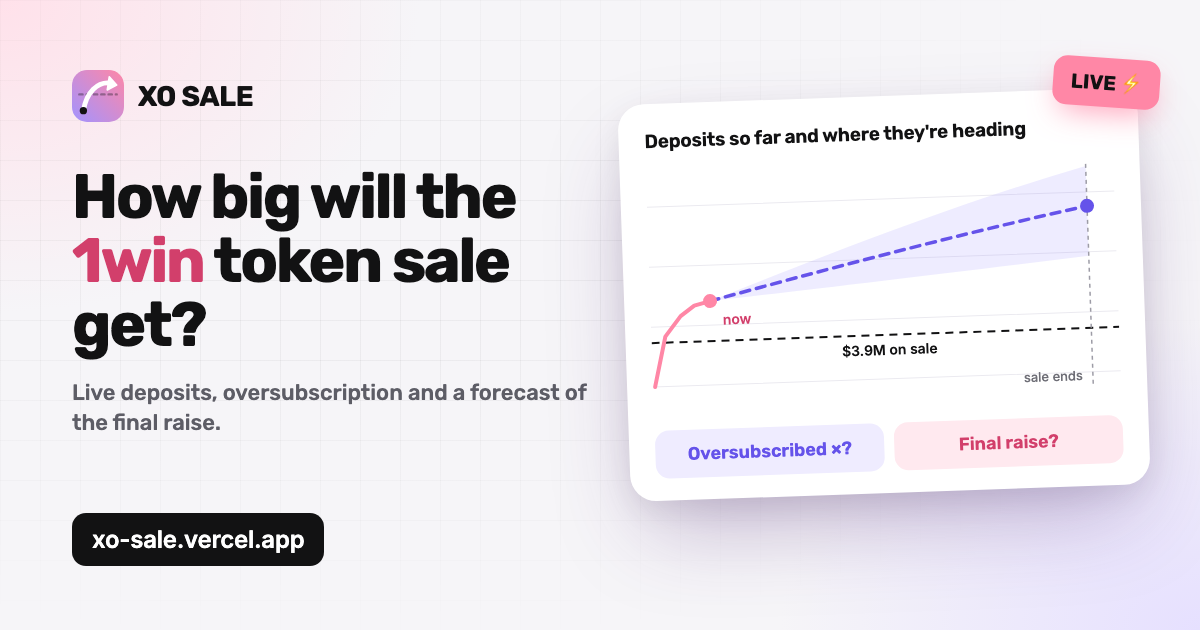
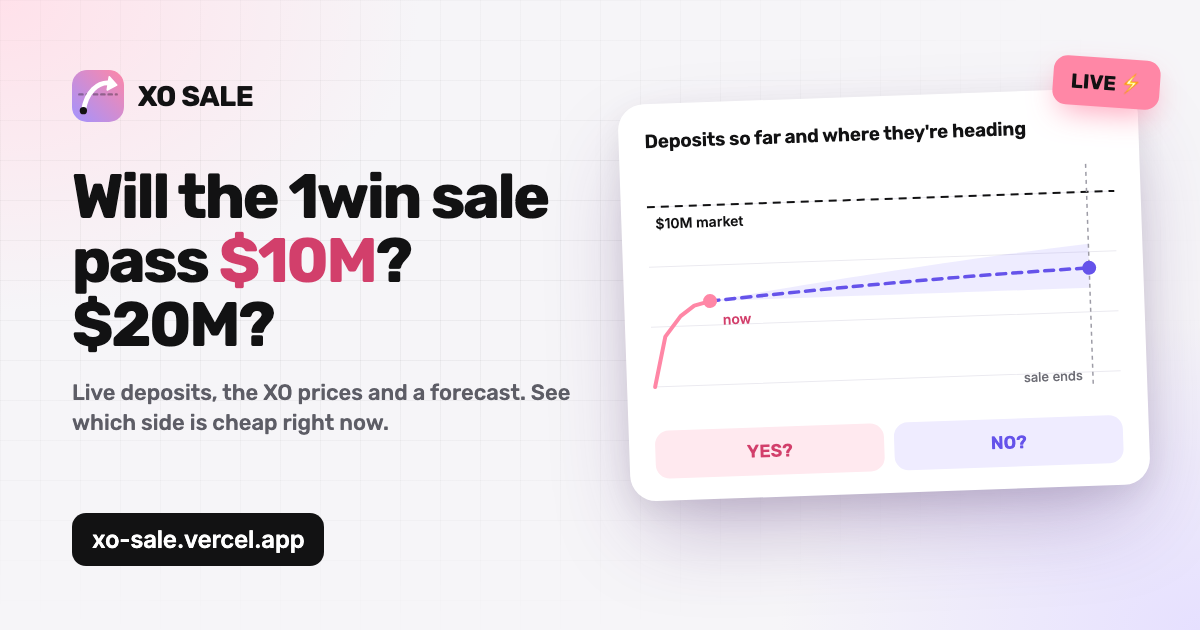
Analyse the sale against its two XO markets
The page now leads with the XO markets on the 1win sale (above $10M by Oct 30 00:00 UTC,
above $20M by the close): our chance of YES, the price to buy each side with the fee,
the pace each one needs against the pace now, a verdict and buy buttons. The proxy also
returns the markets' best prices, since XO's order books only answer XO's own site.
The chart shows both market lines; the preview image asks the markets' question.

diff --git a/index.html b/index.html
@@ -5,16 +5,16 @@
 <meta name="viewport" content="width=device-width, initial-scale=1">
 <title>XO SALE · 1win Token</title>
 <meta name="description" content="Live tracker for the 1win Token (1W) sale: deposits, oversubscription and a forecast of the final raise.">
-<meta property="og:title" content="XO SALE · 1win Token sale, live">
-<meta property="og:description" content="Deposits, oversubscription and where the raise is heading, updated live.">
+<meta property="og:title" content="XO SALE · Will the 1win sale pass $10M? $20M?">
+<meta property="og:description" content="Live deposits, the XO prices and a forecast: which side looks cheap right now.">
 <meta property="og:type" content="website">
 <meta property="og:url" content="https://xo-sale.vercel.app/">
 <meta property="og:image" content="https://xo-sale.vercel.app/img/og.png">
 <meta property="og:image:width" content="1200">
 <meta property="og:image:height" content="630">
 <meta name="twitter:card" content="summary_large_image">
-<meta name="twitter:title" content="XO SALE · 1win Token sale, live">
-<meta name="twitter:description" content="Deposits, oversubscription and where the raise is heading, updated live.">
+<meta name="twitter:title" content="XO SALE · Will the 1win sale pass $10M? $20M?">
+<meta name="twitter:description" content="Live deposits, the XO prices and a forecast: which side looks cheap right now.">
 <meta name="twitter:image" content="https://xo-sale.vercel.app/img/og.png">
 <meta name="theme-color" content="#FF87A6">
 <link rel="icon" type="image/svg+xml" href="img/logo.svg">
@@ -127,6 +127,33 @@ canvas{width:100%;display:block}
 @media (max-width:420px){.fact .ic{display:none}.fact{padding:12px 16px}.split .v{font-size:18px}.split>div+div{padding-left:14px;margin-left:2px}}
 @media (max-width:340px){.split .v{font-size:16px}.split .lbl{font-size:12.5px}.fact{padding:12px 12px}.split>div+div{padding-left:10px}}
 
+.mkts{display:grid;grid-template-columns:minmax(0,1fr) minmax(0,1fr);gap:12px;margin-top:20px}
+@media (max-width:860px){.mkts{grid-template-columns:minmax(0,1fr)}}
+.mk{border:1px solid var(--line);border-radius:18px;padding:16px;min-width:0}
+.mk-h{display:flex;align-items:baseline;gap:8px;flex-wrap:wrap}
+.mk-h b{font:600 19px Rubik;letter-spacing:-.02em}
+.mk-h span{font:400 13px Rubik;color:var(--muted)}
+.mk-row{display:grid;grid-template-columns:minmax(0,1fr) minmax(0,1fr);gap:10px;margin-top:12px}
+.mk-row>div{background:var(--soft);border-radius:14px;padding:10px 12px}
+.mk-row .v{font:600 30px/1.1 Inter;letter-spacing:-.025em;font-variant-numeric:tabular-nums;margin-top:2px}
+.mk-row .v.pm{color:var(--no-ink)}
+.need{margin-top:10px;font:400 13.5px/1.5 Rubik;color:var(--muted)}.need b{color:var(--ink);font-weight:600}
+.verdict{margin-top:12px;border-radius:14px;padding:12px 14px;display:flex;flex-direction:column;gap:4px;background:var(--soft)}
+.verdict.yes{background:linear-gradient(100deg,var(--yes-soft),color-mix(in srgb,var(--yes-soft) 30%,var(--card)))}
+.verdict.no{background:linear-gradient(100deg,var(--no-soft),color-mix(in srgb,var(--no-soft) 30%,var(--card)))}
+.verdict .side{display:flex;align-items:center;gap:6px;font:600 19px Rubik;letter-spacing:-.02em;white-space:nowrap}
+.verdict.yes .side{color:var(--yes-ink)}.verdict.no .side{color:var(--no-ink)}
+.verdict .side svg{width:22px;height:22px}
+.verdict .t{font:400 14px/1.5 Rubik}.verdict .t b{font-weight:600}
+.trade{display:grid;grid-template-columns:minmax(0,1fr) minmax(0,1fr);gap:8px;margin-top:10px}
+.tb{display:flex;flex-direction:column;align-items:center;gap:2px;padding:11px 8px;border-radius:14px;text-decoration:none;transition:transform .15s}
+.tb:hover{transform:translateY(-1px)}
+.tb.off{pointer-events:none;opacity:.55;filter:saturate(.55);cursor:default}
+.tb.yes{background:var(--yes-soft)}.tb.no{background:var(--no-soft)}
+.tb b{font:600 16px Rubik;white-space:nowrap}.tb.yes b{color:var(--yes-ink)}.tb.no b{color:var(--no-ink)}
+.tb span{font:500 12px Figtree;color:var(--muted);text-align:center;font-variant-numeric:tabular-nums}
+.duo2{display:grid;grid-template-columns:minmax(0,1fr) minmax(0,1fr);gap:12px;margin-top:16px}
+@media (max-width:620px){.duo2{grid-template-columns:minmax(0,1fr)}}
 .fill-note{margin-top:14px;border-radius:16px;padding:14px 16px;background:var(--soft);font:400 14.5px/1.5 Rubik}
 .fill-note b{font-weight:600}
 .ptick{position:absolute;top:-3px;bottom:-3px;width:2px;background:var(--ink);border-radius:1px}
@@ -145,28 +172,16 @@ canvas{width:100%;display:block}
 </div></header>
 
 <main class="wrap">
-  <!-- 1 · headline numbers -->
+  <!-- 1 · the XO markets -->
   <section class="card">
     <div class="q">
       <img src="img/logo.svg" alt="">
       <div>
-        <h1>1win Token (1W) sale: how much will it raise?</h1>
-        <div class="meta" id="meta">Solana · $0.03 per token · $3.9M target · ends Oct 30, 16:00 UTC</div>
+        <h1>Will the 1win token sale pass $10M? $20M?</h1>
+        <div class="meta" id="meta">Two XO markets on the 1win Token (1W) sale · ends Oct 30, 16:00 UTC</div>
       </div>
     </div>
-    <div class="duo">
-      <div class="box o">
-        <div class="h"><i></i><span>Oversubscribed now</span></div>
-        <div class="v" id="xNow">—</div>
-        <div class="d" id="xDesc">Deposits divided by the $3.9M the sale is selling.</div>
-      </div>
-      <div class="box f">
-        <div class="h"><i></i><span>Our forecast at close</span></div>
-        <div class="v" id="fMid">—</div>
-        <div class="d" id="fDesc">Where deposits are heading by the end of the sale, from how fast money is coming in.</div>
-      </div>
-    </div>
-    <div class="fill-note" id="fillNote">Loading live data…</div>
+    <div class="mkts" id="mkts"><div class="need">Loading live data…</div></div>
     <div class="conf"><span class="dots" id="dots"><i></i><i></i><i></i></span><span id="conf">—</span></div>
   </section>
 
@@ -175,6 +190,19 @@ canvas{width:100%;display:block}
     <h2>Deposited so far</h2>
     <div class="big" id="dep">—</div>
     <div class="sub" id="depLine">—</div>
+    <div class="duo2">
+      <div class="box o">
+        <div class="h"><i></i><span>Oversubscribed now</span></div>
+        <div class="v" id="xNow">—</div>
+        <div class="d" id="xDesc">Deposits divided by the $3.9M the sale is selling.</div>
+      </div>
+      <div class="box f">
+        <div class="h"><i></i><span>Our forecast at close</span></div>
+        <div class="v" id="fMid">—</div>
+        <div class="d" id="fDesc">Where deposits are heading by the end of the sale.</div>
+      </div>
+    </div>
+    <div class="fill-note" id="fillNote">—</div>
     <div class="facts">
       <div class="fact"><div class="ic"><svg viewBox="0 0 24 24"><circle cx="9" cy="8" r="3.5"/><path d="M2.5 20c.8-3.6 3.4-5.5 6.5-5.5s5.7 1.9 6.5 5.5M16 4.5a3.5 3.5 0 010 7M18.5 14.8c1.7.8 2.7 2.5 3 5.2"/></svg></div><div class="split"><div><div class="lbl">People</div><div class="v" id="ppl">—</div></div><div><div class="lbl">Average deposit</div><div class="v" id="avg">—</div></div></div></div>
       <div class="fact"><div class="ic"><svg viewBox="0 0 24 24"><path d="M3 17l6-6 4 4 8-8"/><path d="M15 7h6v6"/></svg></div><div class="split"><div><div class="lbl">Last 24 h</div><div class="v" id="day">—</div></div><div><div class="lbl" id="paceLbl">Pace / hour</div><div class="v" id="pace">—</div></div></div></div>
@@ -189,7 +217,7 @@ canvas{width:100%;display:block}
     <div class="legend">
       <span><i style="background:var(--yes)"></i>Real deposits</span>
       <span><i style="background:var(--fc-line)"></i>Our forecast</span>
-      <span><i style="background:var(--ink)"></i>$3.9M on sale</span>
+      <span><i style="background:var(--ink)"></i>$10M and $20M lines of the XO markets</span>
       <span><i style="background:var(--fc-band);height:10px"></i>Could land anywhere here</span>
     </div>
   </section>
@@ -198,9 +226,9 @@ canvas{width:100%;display:block}
   <section class="card">
     <h2>Good to know</h2>
     <div class="know">
-      <div class="k"><div class="ic" style="background:var(--no-soft)"><svg viewBox="0 0 24 24" style="stroke:var(--no-ink)"><path d="M3 20h18"/><path d="M5 20V10M10 20V4M15 20v-7M20 20v-4"/></svg></div><b>How the forecast works</b><p>We average two views of the real deposits: the sale keeps slowing down the way it has so far, or it keeps the pace of the last day. The range stays wide on purpose: sales often get a rush in their last hours, and one whale can move it a lot.</p></div>
-      <div class="k"><div class="ic" style="background:var(--yes-soft)"><svg viewBox="0 0 24 24" style="stroke:var(--yes-ink)"><circle cx="12" cy="12" r="9"/><path d="M8 12h8M12 8v8"/></svg></div><b>Oversubscription</b><p>The sale sells a fixed <strong>130M tokens ($3.9M)</strong>. When more money comes in, tokens are shared out in proportion to deposits, so the higher the multiple at the close, the smaller the share of each deposit that buys tokens.</p></div>
-      <div class="k"><div class="ic" style="background:var(--warn-soft)"><svg viewBox="0 0 24 24" style="stroke:#d18a00"><path d="M12 9v4M12 17h.01"/><path d="M10.3 3.9L1.8 18a2 2 0 001.7 3h17a2 2 0 001.7-3L13.7 3.9a2 2 0 00-3.4 0z"/></svg></div><b>Where the numbers come from</b><p>Live totals from the <a href="https://1wtoken.com/" target="_blank" rel="noopener">official sale page</a>; the history also from the sale's USDC account <a href="https://solscan.io/account/HciAS69vfU1ZzfWEczqwkAUfLodpbGFVALLpA1wtA5W2" target="_blank" rel="noopener">on Solana</a>. A fan-made tracker by the XO community, not advice.</p></div>
+      <div class="k"><div class="ic" style="background:var(--no-soft)"><svg viewBox="0 0 24 24" style="stroke:var(--no-ink)"><path d="M3 20h18"/><path d="M5 20V10M10 20V4M15 20v-7M20 20v-4"/></svg></div><b>How the forecast works</b><p>We average two views of the real deposits: the sale keeps slowing down the way it has so far, or it keeps the pace of the last day. It can't see what nobody has announced yet: a big 1win promotion or a last-day rush. On the Jumper sale deposits grew <strong>1.9×</strong> in the last 24 hours.</p></div>
+      <div class="k"><div class="ic" style="background:var(--warn-soft)"><svg viewBox="0 0 24 24" style="stroke:#d18a00"><rect x="3" y="5" width="18" height="16" rx="2"/><path d="M3 10h18M8 3v4M16 3v4"/></svg></div><b>How the markets resolve</b><p><strong>$10M:</strong> gross commitments as of <strong>Oct 30, 00:00 UTC</strong>, 16 hours before the sale ends. <strong>$20M:</strong> the gross total on the sale page at any time before the close (Oct 30, 16:00 UTC; an extension counts up to Nov 15). Both use the total before refunds, as shown on the sale page.</p></div>
+      <div class="k"><div class="ic" style="background:var(--yes-soft)"><svg viewBox="0 0 24 24" style="stroke:var(--yes-ink)"><path d="M12 9v4M12 17h.01"/><path d="M10.3 3.9L1.8 18a2 2 0 001.7 3h17a2 2 0 001.7-3L13.7 3.9a2 2 0 00-3.4 0z"/></svg></div><b>Sources, and not advice</b><p>Live totals from the <a href="https://1wintoken.com/" target="_blank" rel="noopener">official sale page</a>; the history also from the sale's USDC account <a href="https://solscan.io/account/HciAS69vfU1ZzfWEczqwkAUfLodpbGFVALLpA1wtA5W2" target="_blank" rel="noopener">on Solana</a>. A fan-made tracker by the XO community. Only trade what you can afford to lose.</p></div>
     </div>
   </section>
 </main>
@@ -212,7 +240,14 @@ const CFG = {
   goal: 3.9e6, // what the sale sells: 130M tokens at $0.03
   open: Date.parse('2026-10-15T15:00:00Z'),
   end: Date.parse('2026-10-30T16:00:00Z'),
+  ref: 'andriy_shkinder',
+  // the XO markets on this sale: what total they need, and the moment it's counted
+  markets: [
+    { slug: 'total-commitments-for-the-1win-1win-public-sale-ab-9330', goal: 10e6, name: 'Above $10M', at: Date.parse('2026-10-30T00:00:00Z'), when: 'counted Oct 30, 00:00 UTC' },
+    { slug: 'will-the-1win-token-sale-get-more-than-20m-in-depo-8761', goal: 20e6, name: 'Above $20M', at: null, when: 'by the sale close, Oct 30, 16:00 UTC' },
+  ],
 };
+const mAt = m => m.at || CFG.end; // null: the sale close, which can move
 
 const root = document.documentElement;
 try { const s = localStorage.getItem('theme'); if (s) root.dataset.theme = s; } catch {}
@@ -223,6 +258,12 @@ const usd = v => '$' + Math.round(v).toLocaleString('en-US');
 const usdM = v => v >= 1e6 ? '$' + (v / 1e6).toFixed(v >= 1e7 ? 1 : 2) + 'M' : v >= 1e3 ? '$' + (v / 1e3).toFixed(v >= 1e4 ? 0 : 1) + 'K' : '$' + Math.round(v);
 const mult = v => '×' + v.toFixed(2);
 const Hh = ms => ms / 36e5;
+const cents = v => (v < .01 ? (v * 100).toFixed(1) : Math.round(v * 100)) + '¢';
+const pct = v => Math.round(v * 100) + '%';
+// XO taker fee per share: 4% × p × (1 − p) (docs.xo.market/product/trading/fees), so one share really costs p + fee
+const withFee = p => p + .04 * p * (1 - p);
+function erf(x) { const s = Math.sign(x); x = Math.abs(x); const t = 1 / (1 + .3275911 * x); return s * (1 - (((((1.061405429 * t - 1.453152027) * t) + 1.421413741) * t - .284496736) * t + .254829592) * t * Math.exp(-x * x)); }
+const Phi = z => .5 * (1 + erf(z / Math.SQRT2));
 const css = n => getComputedStyle(root).getPropertyValue(n).trim();
 
 let HIST = [], LIVE = null, MODEL = null;
@@ -288,7 +329,14 @@ function compute() {
   // deposits over the last 24 hours, read off the recorded line
   const at = t => { let v = null; for (const p of pts) { if (p.t <= t) v = p.d; else break; } return v; };
   const dayAgo = at(now.t - 864e5);
-  MODEL = { pts, now, tNow, k, se, fitted, pace, fc, day: dayAgo == null ? null : now.d - dayAgo };
+  // chance that deposits pass `goal` by time T; never 0% or 100% while it's still open
+  const prob = (goal, T) => {
+    if (now.d > goal) return 1;
+    if (T <= now.t) return 0;
+    const f = fc(T); if (f.rem <= 0) return .01;
+    return Math.min(.99, Math.max(.01, 1 - Phi(Math.log((goal - now.d) / f.rem) / f.sigma)));
+  };
+  MODEL = { pts, now, tNow, k, se, fitted, pace, fc, prob, day: dayAgo == null ? null : now.d - dayAgo };
 }
 
 let shownDep = 0, animFrom = 0, animT0 = 0;
@@ -315,6 +363,7 @@ function render() {
   $('fillNote').innerHTML = over
     ? `The sale closed at <b>${mult(x)}</b>: each $1,000 deposited bought about <b>${usd(1000 / Math.max(1, x))}</b> of 1W at the sale price.`
     : `If the sale closes around <b>${mult(xFinal)}</b>, a <b>$1,000</b> deposit buys about <b>${usd(fill)}</b> of 1W at the sale price (${Math.round(100 / Math.max(1, xFinal))}% of it). Right now it would be ${usd(1000 / Math.max(1, x))}.`;
+  renderMarkets(M, d);
   // how sure: a young sale, or the two views disagreeing a lot, means a wide range
   const sig = f.sigma, hrs = Math.floor(M.tNow), early = !M.fitted || M.tNow < 12, level = over ? 3 : early || sig > .6 ? 1 : sig > .45 ? 2 : 3;
   [...$('dots').children].forEach((e, i) => e.classList.toggle('on', i < level));
@@ -322,7 +371,49 @@ function render() {
   $('conf').innerHTML = over ? 'How sure: <b>certain</b>. The sale is over.'
     : level === 1 && !early ? 'How sure: <b>low</b>. The long-run trend and the pace of the last day point to very different results right now.'
     : level === 1 ? `How sure: <b>low</b>. Only ${hrs} hours of deposits so far.`
-    : `How sure: <b>${level === 2 ? 'medium' : 'high'}</b>. Based on ${days >= 2 ? days + ' days' : hrs + ' hours'} of real deposits, but a last-day rush can still push it past the top of the range.`;
+    : `How sure: <b>${level === 2 ? 'medium' : 'high'}</b> about the trend, from ${days >= 2 ? days + ' days' : hrs + ' hours'} of real deposits. What it can't see is news: a big push from 1win or a last-day rush.`;
+}
+const ARROW_UP = '<svg viewBox="0 0 24 24" fill="none" stroke="currentColor" stroke-width="2.6" stroke-linecap="round" stroke-linejoin="round"><path d="M7 17L17 7M9 7h8v8"/></svg>';
+const ARROW_DN = '<svg viewBox="0 0 24 24" fill="none" stroke="currentColor" stroke-width="2.6" stroke-linecap="round" stroke-linejoin="round"><path d="M7 7l10 10M17 9v8H9"/></svg>';
+const EQUAL = '<svg viewBox="0 0 24 24" fill="none" stroke="currentColor" stroke-width="2.6" stroke-linecap="round"><path d="M6 9h12M6 15h12"/></svg>';
+function renderMarkets(M, d) {
+  const xo = (LIVE && LIVE.markets) || [];
+  const html = CFG.markets.map(cfg => {
+    const m = xo.find(x => x.slug === cfg.slug), T = mAt(cfg), url = `https://beta.xo.market/event/${cfg.slug}?r=${CFG.ref}`;
+    const pm = M.prob(cfg.goal, T), hit = d > cfg.goal;
+    // betting is over once the market's expiry has passed or XO reports any status but ACTIVE
+    const closed = !m || Date.now() >= Date.parse(m.expiresAt) || m.status !== 'ACTIVE';
+    const yesAsk = m && m.yes.ask, noAsk = m && m.no.ask, mid = m ? m.last : null;
+    const hLeft = Math.max(.01, Hh(T - M.now.t)), needPace = (cfg.goal - d) / hLeft;
+    const need = hit ? `Deposits are already above ${usdM(cfg.goal)}.`
+      : T <= Date.now() ? `Counting is over: deposits stayed below ${usdM(cfg.goal)}.`
+      : `Needs <b>+${usdM(cfg.goal - d)}</b> more: <b>${usdM(needPace)}</b> an hour on average, against <b>${usdM(M.pace)}</b> an hour now${M.pace > 0 ? ` (${Math.max(1, Math.round(needPace / M.pace))}×)` : ''}.`;
+    // compare our chance with what each side really costs, fee included
+    const yesCost = yesAsk != null ? withFee(yesAsk) : null, noCost = noAsk != null ? withFee(noAsk) : null;
+    const edgeYes = yesCost != null ? pm - yesCost : -1, edgeNo = noCost != null ? (1 - pm) - noCost : -1;
+    const side = closed ? 'none' : hit ? 'yes' : edgeYes > .05 ? 'yes' : edgeNo > .05 ? 'no' : 'none';
+    let verdict;
+    if (closed && m) verdict = `<div class="side">${EQUAL}Betting closed</div><div class="t">Last XO price of YES: <b>${cents(mid)}</b>. Our chance: <b>${pct(pm)}</b>.</div>`;
+    else if (!m) verdict = `<div class="side">${EQUAL}No XO prices</div><div class="t">Couldn't load this market from XO right now.</div>`;
+    else if (hit) verdict = `<div class="side">${ARROW_UP}YES ✓</div><div class="t">Deposits passed ${usdM(cfg.goal)}.</div>`;
+    else if (side === 'no') verdict = `<div class="side">${ARROW_DN}NO looks cheap</div><div class="t">We give NO <b>${pct(1 - pm)}</b>, and it costs <b>${cents(noAsk)}</b>. The XO crowd expects much more money than the deposits show so far.</div>`;
+    else if (side === 'yes') verdict = `<div class="side">${ARROW_UP}YES looks cheap</div><div class="t">We give YES <b>${pct(pm)}</b>, and it costs <b>${cents(yesAsk)}</b>.</div>`;
+    else verdict = `<div class="side">${EQUAL}Fair price</div><div class="t">Our chance and the price to buy are close, so neither side is cheap right now.</div>`;
+    const btn = (k, ask, cost) => {
+      const label = k === 'yes' ? 'YES' : 'NO';
+      if (closed) return `<a class="tb ${k} off" aria-disabled="true"><b>${label}${m ? ' · ' + cents(k === 'yes' ? mid : 1 - mid) : ''}</b><span>closed</span></a>`;
+      return `<a class="tb ${k}" href="${url}" target="_blank" rel="noopener"><b>Buy ${label}${ask != null ? ' · ' + cents(ask) : ''}</b><span>${ask != null ? `$10 → $${(10 / cost).toFixed(2)} if ${label}` : 'no offers right now'}</span></a>`;
+    };
+    return `<div class="mk">
+      <div class="mk-h"><b>${cfg.name}</b><span>${cfg.when}</span></div>
+      <div class="mk-row"><div><div class="lbl">Our chance of YES</div><div class="v pm">${pct(pm)}</div></div><div><div class="lbl">XO price of YES</div><div class="v">${yesAsk != null && !closed ? cents(yesAsk) : mid != null ? cents(mid) : '—'}</div></div></div>
+      <div class="need">${need}</div>
+      <div class="verdict ${side === 'none' ? '' : side}">${verdict}</div>
+      <div class="trade">${btn('yes', yesAsk, yesCost)}${btn('no', noAsk, noCost)}</div>
+    </div>`;
+  }).join('');
+  if ($('mkts').innerHTML !== html) $('mkts').innerHTML = html;
+  setText('meta', `Two XO markets on the 1win Token (1W) sale · ${usdM(d)} deposited so far`);
 }
 function fmtLeft(ms) { ms = Math.max(0, ms); const d = Math.floor(ms / 864e5), h = Math.floor(ms / 36e5) % 24, m = Math.floor(ms / 6e4) % 60; return (d ? d + 'd ' : '') + h + 'h ' + String(m).padStart(2, '0') + 'm'; }
 // write to the DOM only when the text actually changes
@@ -359,7 +450,8 @@ function draw() {
   const ink = css('--ink'), muted = css('--muted'), line = css('--line'), yes = css('--yes'), fcs = getComputedStyle($('chartCard')), lav = fcs.getPropertyValue('--fc-line').trim();
   const t0 = CFG.open, t1 = CFG.end + 12 * 36e5;
   const f = M.fc(CFG.end);
-  const yMax = Math.max(CFG.goal * 1.3, M.now.d * 1.15, Math.min(f.hi * 1.08, f.mid * 2));
+  const top = Math.max(...CFG.markets.map(m => m.goal));
+  const yMax = Math.max(top * 1.12, M.now.d * 1.15, Math.min(f.hi * 1.08, f.mid * 2));
   const X = t => L + (t - t0) / (t1 - t0) * (W - L - R), Y = v => T + (1 - v / yMax) * (H - T - B);
   const step = [1e6, 2e6, 5e6, 1e7, 2e7, 5e7].find(s => yMax / s <= 6) || 5e7;
   g.font = '500 12px Figtree'; g.strokeStyle = line; g.lineWidth = 1; g.fillStyle = muted; g.textAlign = 'right'; g.textBaseline = 'middle';
@@ -376,19 +468,25 @@ function draw() {
     g.fillStyle = fcs.getPropertyValue('--fc-band').trim(); g.fill();
     g.save(); g.setLineDash([6, 5]); g.strokeStyle = lav; g.lineWidth = 2.5; g.beginPath(); ts.forEach((t, i) => { const y = Y(at(t, 'mid')); i ? g.lineTo(X(t), y) : g.moveTo(X(t), y); }); g.stroke(); g.restore();
   }
-  g.save(); g.strokeStyle = ink; g.lineWidth = 1.5; g.setLineDash([8, 6]); g.beginPath(); g.moveTo(L, Y(CFG.goal)); g.lineTo(W - R, Y(CFG.goal)); g.stroke(); g.restore();
-  tag(g, '$3.9M on sale', X(CFG.open + 864e5 * 1.5), Y(CFG.goal) + 13, { color: ink, bold: true });
+  // each market's line runs to the moment it's counted
+  CFG.markets.forEach(m => {
+    const xe = X(mAt(m));
+    g.save(); g.strokeStyle = ink; g.lineWidth = 1.5; g.setLineDash([8, 6]); g.beginPath(); g.moveTo(L, Y(m.goal)); g.lineTo(xe, Y(m.goal)); g.stroke(); g.restore();
+    tag(g, '$' + m.goal / 1e6 + 'M market', L + 8, Y(m.goal) - 12, { color: ink, bold: true });
+  });
+  if (CFG.markets.some(m => m.at)) { const xc = X(Math.min(...CFG.markets.filter(m => m.at).map(m => m.at)));
+    g.save(); g.setLineDash([2, 5]); g.strokeStyle = muted; g.globalAlpha = .6; g.lineWidth = 1.5; g.beginPath(); g.moveTo(xc + .5, T + 20); g.lineTo(xc + .5, H - B); g.stroke(); g.restore(); }
   const pts = M.pts;
   const path = () => { g.beginPath(); g.moveTo(X(CFG.open), Y(0)); pts.forEach(p => g.lineTo(X(p.t), Y(p.d))); };
   path(); g.lineTo(X(pts[pts.length - 1].t), Y(0)); g.closePath();
   const gr = g.createLinearGradient(0, T, 0, H - B); gr.addColorStop(0, 'rgba(255,135,166,.32)'); gr.addColorStop(1, 'rgba(255,135,166,0)'); g.fillStyle = gr; g.fill();
   path(); g.strokeStyle = yes; g.lineWidth = 3; g.lineJoin = 'round'; g.stroke();
   const last = pts[pts.length - 1]; g.fillStyle = yes; g.beginPath(); g.arc(X(last.t), Y(last.d), 5.5, 0, 7); g.fill(); g.strokeStyle = css('--card'); g.lineWidth = 2; g.stroke();
-  // 'now' label above-left of the dot, where the line has already been; under it when that would run into the axis labels
+  // 'now' label above-left of the dot, where the line has already been; below-right of it when that would run into the axis labels
   const nowTxt = (M.now.t >= CFG.end ? 'final ' : 'now ') + usdM(last.d);
   g.font = '600 12.5px Figtree';
   const roomLeft = X(last.t) - 10 - g.measureText(nowTxt).width > L + 6;
-  tag(g, nowTxt, X(last.t) - 10, roomLeft ? Math.max(T + 30, Y(last.d) - 16) : Y(last.d) + 20, { align: 'right', color: css('--yes-ink'), bold: true });
+  tag(g, nowTxt, X(last.t) + (roomLeft ? -10 : 8), roomLeft ? Math.max(T + 30, Y(last.d) - 16) : Y(last.d) + 20, { align: roomLeft ? 'right' : 'left', color: css('--yes-ink'), bold: true });
   if (M.now.t < CFG.end) {
     const v = f.mid; if (v <= yMax) { g.fillStyle = lav; g.beginPath(); g.arc(X(CFG.end), Y(v), 5, 0, 7); g.fill();
       tag(g, 'forecast ' + usdM(v), X(CFG.end) - 8, Math.max(T + 30, Y(Math.min(yMax, f.hi)) - 14), { align: 'right', color: lav, bold: true }); }

diff --git a/api/sale.js b/api/sale.js
@@ -1,6 +1,24 @@
 // Vercel serverless proxy: the 1win sale API only answers its own site, so the browser can't call it directly.
-// GET /api/sale → { fetchedAt, deposits, participants, oversub, price, supply, open, close, phase }   (edge-cached 10 s)
+// GET /api/sale → { fetchedAt, deposits, participants, oversub, price, supply, open, close, phase, markets }   (edge-cached 10 s)
+// `markets`: the XO markets on this sale with their best prices. XO's order books only answer XO's own site, so they come from here too.
 const REPO = 'AndriyShk/xo-sale';
+const XO_MARKETS = ['total-commitments-for-the-1win-1win-public-sale-ab-9330', 'will-the-1win-token-sale-get-more-than-20m-in-depo-8761'];
+
+const getJson = async (url) => { const r = await fetch(url, { headers: { 'user-agent': 'Mozilla/5.0 xo-sale-tracker' }, signal: AbortSignal.timeout(6000) }); if (!r.ok) throw new Error(`${url} ${r.status}`); return r.json(); };
+// best ask (cheapest to buy) and best bid of one outcome token
+async function book(token) {
+  const b = await getJson(`https://orderbooks.xo.market/book?token_id=${token}`);
+  const px = (side) => (b[side] || []).map((o) => +o.price).filter((p) => p > 0 && p < 1);
+  const asks = px('asks'), bids = px('bids');
+  return { ask: asks.length ? Math.min(...asks) : null, bid: bids.length ? Math.max(...bids) : null };
+}
+async function xoMarket(slug) {
+  const ev = (await getJson(`https://api-mainnet.xo.market/api/v1/events/slug/${slug}`)).data;
+  const m = ev.markets[0].market;
+  const tok = (i) => m.outcomes.find((o) => o.index === i);
+  const [yes, no] = await Promise.all([0, 1].map((i) => book(tok(i).outcomeTokenId).catch(() => ({ ask: null, bid: null }))));
+  return { slug, title: m.title, expiresAt: m.expiresAt, status: m.status, last: +tok(0).currentPrice / 1e6, volume: +m.totalVolumeInUSD, yes, no };
+}
 
 // GitHub often skips or delays the Action's */10 schedule. With a GH_TOKEN env var (fine-grained, Actions: write on this repo)
 // every cache miss checks when the snapshot Action last ran and starts it again after 10 minutes.
@@ -16,8 +34,9 @@ async function nudgeSnapshot() {
 
 export default async function handler(req, res) {
   try {
-    const [r] = await Promise.all([
+    const [r, markets] = await Promise.all([
       fetch('https://1wtoken.com/api/v1/token-api/token/sale/state', { method: 'POST', headers: { 'content-type': 'application/json', 'user-agent': 'Mozilla/5.0 xo-sale-tracker' }, body: '{}', signal: AbortSignal.timeout(8000) }),
+      Promise.all(XO_MARKETS.map((slug) => xoMarket(slug).catch((e) => { console.error('xo market', slug, e); return null; }))),
       nudgeSnapshot().catch(() => {}),
     ]);
     if (!r.ok) throw new Error(`sale API ${r.status}`);
@@ -35,6 +54,7 @@ export default async function handler(req, res) {
       close: state.saleEndDate,
       phase: state.phase,
       paused: !!state.paused,
+      markets: markets.filter(Boolean),
     });
   } catch (e) {
     console.error('sale proxy:', e);

diff --git a/promo/og.html b/promo/og.html
@@ -26,26 +26,26 @@ h1 span{color:#d23f6b}
 <div class="grid"></div>
 <div class="left">
   <div class="brand"><img src="../img/logo.svg"><span>XO SALE</span></div>
-  <h1>How big will the <span>1win</span> token sale get?</h1>
-  <div class="sub">Live deposits, oversubscription and a forecast of the final raise.</div>
+  <h1>Will the 1win sale pass <span>$10M</span>? $20M?</h1>
+  <div class="sub">Live deposits, the XO prices and a forecast. See which side is cheap right now.</div>
 </div>
 <div class="url">xo-sale.vercel.app</div>
 <div class="card">
   <h2>Deposits so far and where they're heading</h2>
   <svg width="468" height="250" viewBox="0 0 468 250">
     <g stroke="#ebeaf0" stroke-width="1"><path d="M0 40H468M0 100H468M0 160H468M0 220H468"/></g>
-    <path d="M60 136 C160 100 300 50 440 14 L440 104 C300 116 160 128 60 136Z" fill="#a293ff" opacity=".18"/>
-    <path d="M0 176H468" stroke="#121213" stroke-width="2" stroke-dasharray="8 6"/>
-    <text x="190" y="196" font-family="Inter" font-weight="600" font-size="14" fill="#121213">$3.9M on sale</text>
+    <path d="M60 136 C160 122 300 104 440 92 L440 136 C300 136 160 136 60 136Z" fill="#a293ff" opacity=".18"/>
+    <path d="M0 40H468" stroke="#121213" stroke-width="2" stroke-dasharray="8 6"/>
+    <text x="8" y="62" font-family="Inter" font-weight="600" font-size="14" fill="#121213">$10M market</text>
     <path d="M440 12V236" stroke="#9d9ca6" stroke-width="1.5" stroke-dasharray="4 4"/>
     <path d="M2 220 L14 170 L30 150 L44 140 L60 136" fill="none" stroke="#FF87A6" stroke-width="4" stroke-linecap="round" stroke-linejoin="round"/>
-    <path d="M60 136 C170 110 300 80 440 54" fill="none" stroke="#6553ea" stroke-width="3.5" stroke-dasharray="9 7" stroke-linecap="round"/>
+    <path d="M60 136 C170 128 300 120 440 116" fill="none" stroke="#6553ea" stroke-width="3.5" stroke-dasharray="9 7" stroke-linecap="round"/>
     <circle cx="60" cy="136" r="7" fill="#FF87A6"/>
-    <circle cx="440" cy="54" r="7" fill="#6553ea"/>
+    <circle cx="440" cy="116" r="7" fill="#6553ea"/>
     <text x="72" y="160" font-family="Inter" font-weight="600" font-size="14" fill="#d23f6b">now</text>
     <text x="430" y="228" text-anchor="end" font-family="Inter" font-weight="500" font-size="13" fill="#6e6e76">sale ends</text>
   </svg>
-  <div class="duo"><div class="n">Oversubscribed ×?</div><div class="y">Final raise?</div></div>
+  <div class="duo"><div class="y">YES?</div><div class="n">NO?</div></div>
 </div>
 <div class="badge">LIVE ⚡</div>
 </body></html>

diff --git a/README.md b/README.md
@@ -1,7 +1,8 @@
 # XO Sale: live token sale tracker (XO community)
 
 A live page for the 1win Token (1W) sale (https://1wtoken.com): deposits, oversubscription, participants and a
-forecast of the final raise, with a chart from the first day of the sale.
+forecast of the final raise, with a chart from the first day of the sale, set against the two XO markets on it
+(above $10M by Oct 30 00:00 UTC, above $20M by the close): our chance vs the price to buy each side.
 
 - `index.html`: the whole site (static, no build step).
 - `api/sale.js`: Vercel function that proxies the sale's API. It only answers its own site, so the browser can't call it directly.
